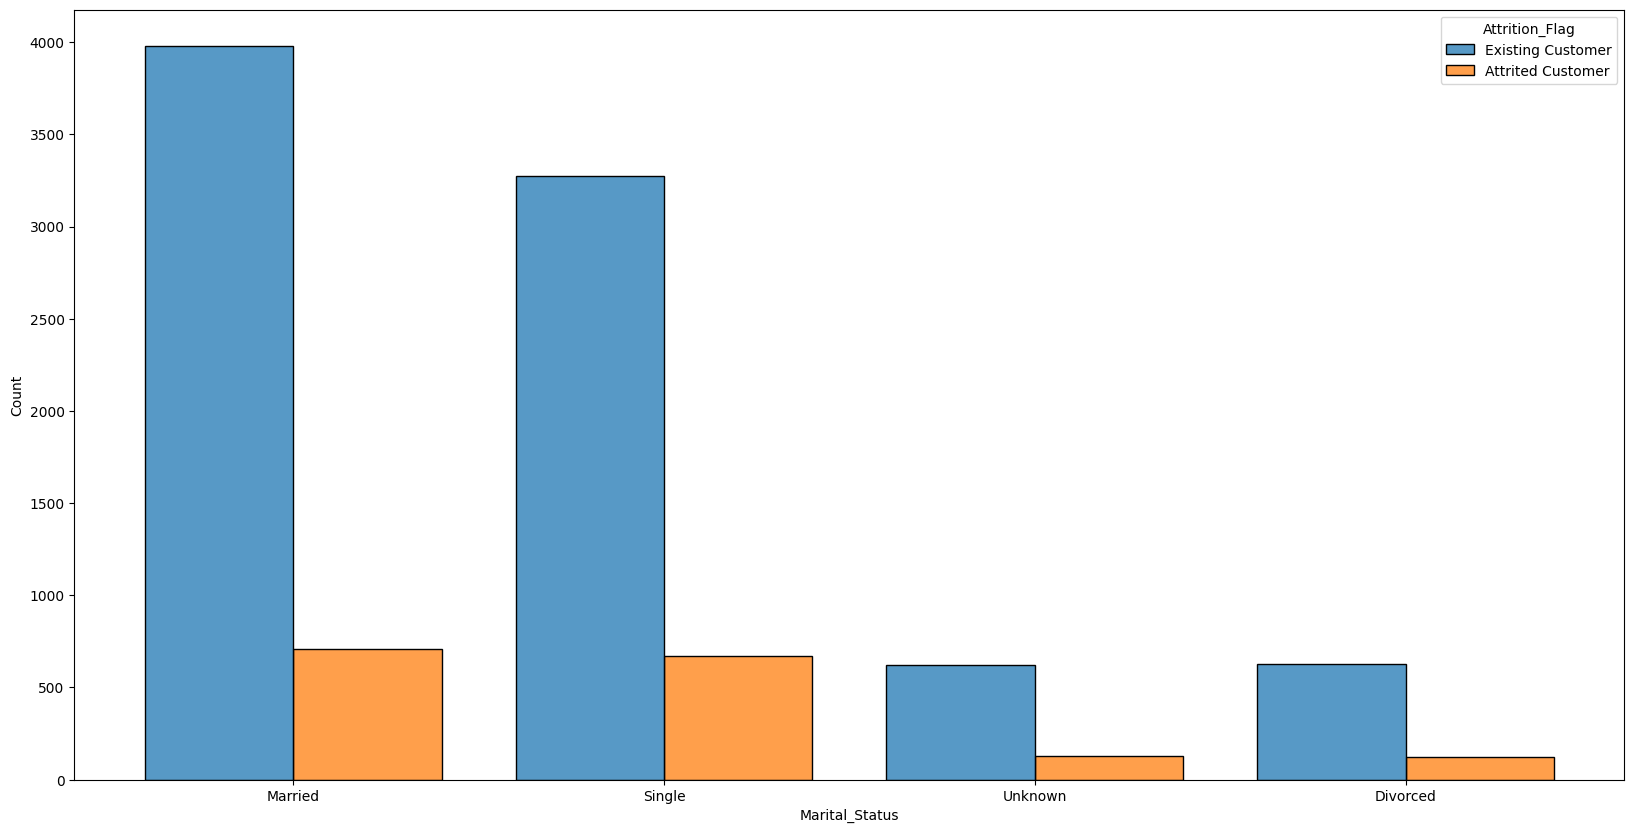
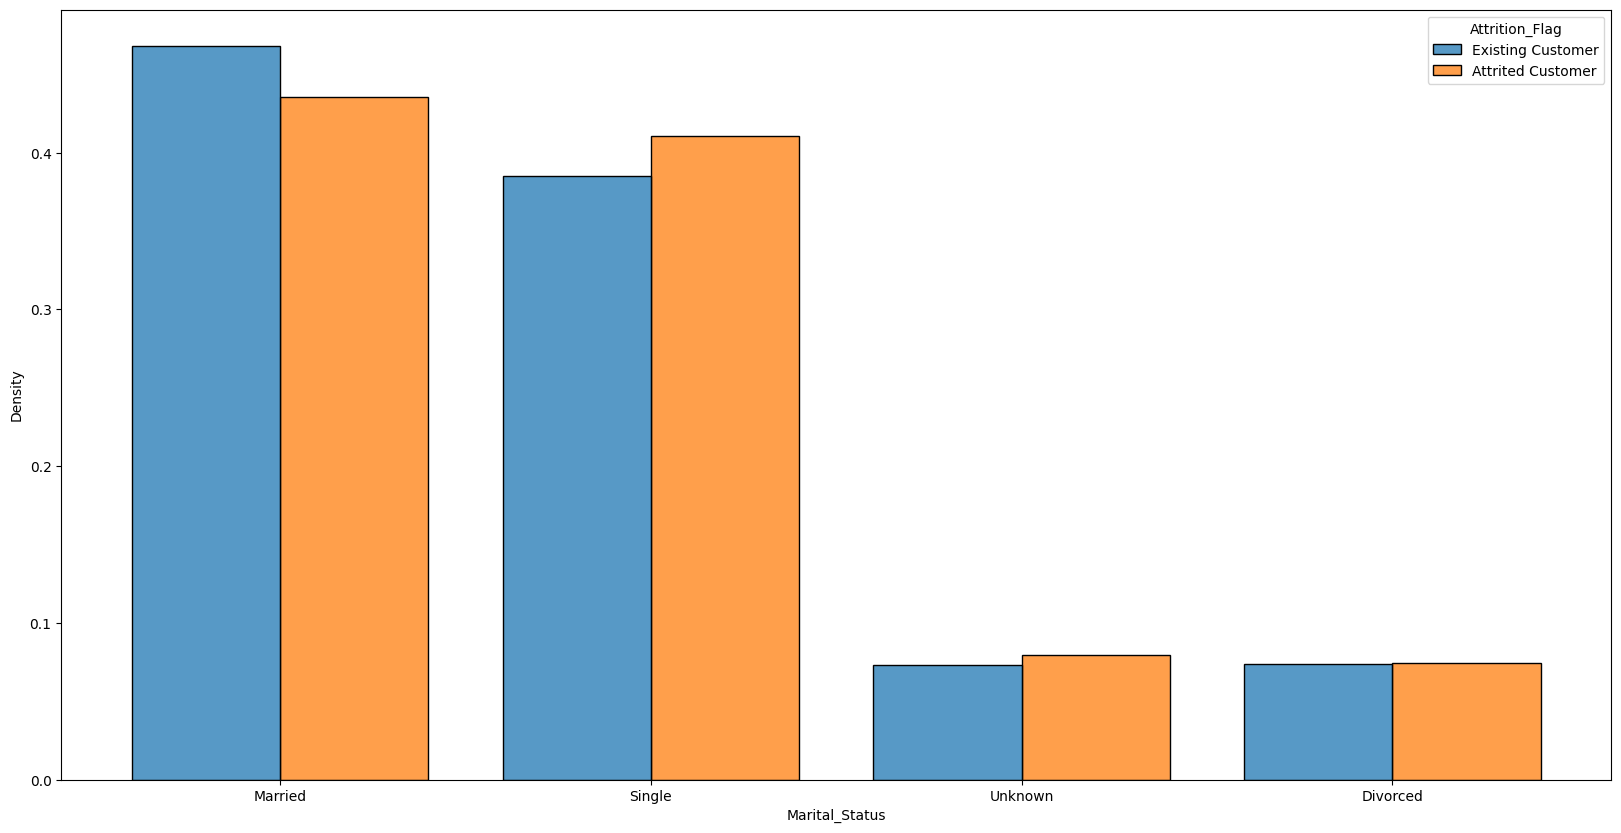
Changes to bivariate plots
Changed from common to per-group norm

diff --git a/churn_library.py b/churn_library.py
@@ -89,6 +89,8 @@ def perform_eda(pd_df):
         sns.histplot(pd_df,
                      x=cat_col,
                      hue=constants.RAW_TARGET_COL,
+                     stat="density",
+                     common_norm=False,
                      multiple="dodge",
                      shrink=.8)
         plt.savefig(os.path.join(constants.EDA_IMG_FLDR_PTH,
@@ -98,17 +100,18 @@ def perform_eda(pd_df):
 
     # Create histograms (density plots) for numeric columns
     for num_col in constants.quant_cols_lst:
-        # Histograms
+        # Univariate
         sns.histplot(pd_df[num_col], stat='density', kde=True)
         plt.savefig(os.path.join(constants.EDA_IMG_FLDR_PTH,
                                  f"{num_col}_hist.png"),
                     bbox_inches="tight")
         plt.close()
 
-        # Scatter plots
+        # Bivariate
         sns.histplot(pd_df,
                      x=num_col,
                      hue=constants.RAW_TARGET_COL,
+                     common_norm=False,
                      stat='density',
                      kde=True)
         plt.savefig(os.path.join(constants.EDA_IMG_FLDR_PTH,
